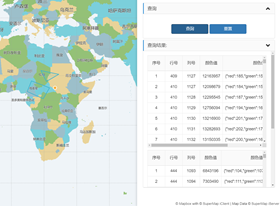
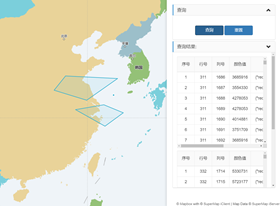
【fix】栅格查询限制查询范围，调整地图中心点与缩放级别 review by qiwei

diff --git a/examples/openlayers/02_getGridCellInfos.html b/examples/openlayers/02_getGridCellInfos.html
@@ -29,7 +29,7 @@
             top: 0;
             right: 0;
             height: 100vh;
-            width: 500px;
+            width: 400px;
             padding: 20px;
             background: #fff;
             font-family: Avenir, Helvetica, Arial, sans-serif;
@@ -221,7 +221,8 @@
     </div>
     <script type="text/javascript" include="bootstrap,jquery,widgets" src="../js/include-web.js"></script>
     <script type="text/javascript">
-        var map, baseUrl = (window.isLocal ? window.server : "https://iserver.supermap.io") + "/iserver/services/map-world/rest/maps/世界地图_Day",
+        var map,
+            baseUrl = (window.isLocal ? window.server : "https://iserver.supermap.io") + "/iserver/services/map-world/rest/maps/世界地图_Day",
             url = (window.isLocal ? window.server : "https://iserver.supermap.io") + "/iserver/services/data-world/rest/data",
             draw,
             querylist = [],
@@ -230,8 +231,8 @@
             target: 'map',
             controls: ol.control.defaults({ attributionOptions: { collapsed: false } }).extend([new ol.supermap.control.Logo({ link: "https://iclient.supermap.io" })]),
             view: new ol.View({
-                center: [30, 0],
-                zoom: 3,
+                center: [120, 28],
+                zoom: 6,
                 projection: 'EPSG:4326',
                 multiWorld: true,
             })
@@ -274,9 +275,30 @@
                 appendTable(res);
             })
         }
+        function getValuesCount(res) {
+            var count = 0;
+            if (!res.object.bounds) {
+                count += 1;
+            } else if (res.object.bounds && !Array.isArray(res.object.bounds)) {
+                count += res.result.valuesCount;
+            } else {
+                var customResult = res.result.customResult;
+                for (var i = 0; i < customResult.length; i++) {
+                    if (customResult[i].values) {
+                        count += customResult[i].valuesCount;
+                    } else {
+                        count += 1;
+                    }
+                }
+            }
+            return count;
+        }
         function appendTable(res) {
-            if (!res || res.error) {
+            if (!res) {
                 return;
+            }
+            if ((res.error && res.error.code === 400) || getValuesCount(res) > 5000) {
+                return widgets.alert.showAlert(resources.msg_outOfQueryRange, false);
             }
             // 展开table
             collapseTable();
@@ -347,7 +369,7 @@
             table.appendChild(thead);
             table.appendChild(tbody);
 
-            var theadInfo = '<tr><th>'+ resources.text_index +'</th><th>'+ resources.text_row_index +'</th><th>'+ resources.text_column_index +'</th><th>'+ resources.text_color_number +'</th><th>'+ resources.text_color_rgba +'</th></tr>';
+            var theadInfo = '<tr><th>' + resources.text_index + '</th><th>' + resources.text_row_index + '</th><th>' + resources.text_column_index + '</th><th>' + resources.text_color_number + '</th><th>' + resources.text_color_rgba + '</th></tr>';
             thead.append(theadInfo);
             thead.innerHTML = theadInfo;
             tbody.innerHTML = tbodyHtml;

diff --git a/examples/mapboxgl/02_getGridCellInfos.html b/examples/mapboxgl/02_getGridCellInfos.html
@@ -27,7 +27,7 @@
             top: 0;
             right: 0;
             height: 100vh;
-            width: 500px;
+            width: 400px;
             padding: 20px;
             background: #fff;
             font-family: Avenir, Helvetica, Arial, sans-serif;
@@ -236,8 +236,8 @@
                     "source": "raster-tiles",
                 }]
             },
-            center: [30, 0],
-            zoom: 2
+            center: [116, 32],
+            zoom: 4
         });
 
         map.addControl(new mapboxgl.supermap.LogoControl({ link: "https://iclient.supermap.io" }), 'bottom-right');
@@ -252,7 +252,6 @@
                 trash: true,
             }
         });
-        console.log($($('.mapboxgl-ctrl').get(1)));
         $($('.mapboxgl-ctrl').get(1)).hide();
         map.addControl(Draw, 'top-left')
         function queryResult() {
@@ -300,9 +299,30 @@
                 })
             }
         })
+        function getValuesCount(res) {
+            var count = 0;
+            if (!res.object.bounds) {
+                count += 1;
+            } else if (res.object.bounds && !Array.isArray(res.object.bounds)) {
+                count += res.result.valuesCount;
+            } else {
+                var customResult = res.result.customResult;
+                for (var i = 0; i < customResult.length; i++) {
+                    if (customResult[i].values) {
+                        count += customResult[i].valuesCount;
+                    } else {
+                        count += 1;
+                    }
+                }
+            }
+            return count;
+        }
         function appendTable(res) {
             if (!res) {
                 return;
+            }
+            if ((res.error && res.error.code === 400) || getValuesCount(res) > 5000) {
+                return widgets.alert.showAlert(resources.msg_outOfQueryRange, false);
             }
             // 展开table
             collapseTable();
@@ -373,7 +393,7 @@
             table.appendChild(thead);
             table.appendChild(tbody);
 
-            var theadInfo = '<tr><th>'+ resources.text_index +'</th><th>'+ resources.text_row_index +'</th><th>'+ resources.text_column_index +'</th><th>'+ resources.text_color_number +'</th><th>'+ resources.text_color_rgba +'</th></tr>';
+            var theadInfo = '<tr><th>' + resources.text_index + '</th><th>' + resources.text_row_index + '</th><th>' + resources.text_column_index + '</th><th>' + resources.text_color_number + '</th><th>' + resources.text_color_rgba + '</th></tr>';
             thead.append(theadInfo);
             thead.innerHTML = theadInfo;
             tbody.innerHTML = tbodyHtml;

diff --git a/examples/leaflet/02_getGridCellInfos.html b/examples/leaflet/02_getGridCellInfos.html
@@ -27,7 +27,7 @@
             top: 0;
             right: 0;
             height: 100vh;
-            width: 500px;
+            width: 400px;
             padding: 20px;
             background: #fff;
             font-family: Avenir, Helvetica, Arial, sans-serif;
@@ -216,9 +216,8 @@
         map = L.map('map', {
             preferCanvas: true,
             crs: L.CRS.EPSG4326,
-            center: { lon: 30, lat: 0 },
-            maxZoom: 18,
-            zoom: 2
+            center: { lon: 120, lat: 28 },
+            zoom: 5
         });
 
         new L.supermap.TiledMapLayer(baseUrl, { noWrap: true }).addTo(map);
@@ -269,9 +268,30 @@
                 appendTable(res);
             })
         }
+        function getValuesCount(res) {
+            var count = 0;
+            if (!res.object.bounds) {
+                count += 1;
+            } else if (res.object.bounds && !Array.isArray(res.object.bounds)) {
+                count += res.result.valuesCount;
+            } else {
+                var customResult = res.result.customResult;
+                for(var i = 0 ; i < customResult.length ; i ++) {
+                    if (customResult[i].values) {
+                        count += customResult[i].valuesCount;
+                    } else {
+                        count += 1;
+                    }
+                }
+            }
+            return count;
+        }
         function appendTable(res) {
             if (!res) {
                 return;
+            }
+            if ((res.error && res.error.code === 400) || getValuesCount(res) > 5000) {
+                return widgets.alert.showAlert(resources.msg_outOfQueryRange, false);
             }
             // 展开table
             collapseTable();

diff --git a/examples/maplibregl/02_getGridCellInfos.html b/examples/maplibregl/02_getGridCellInfos.html
@@ -53,7 +53,7 @@
             top: 0;
             right: 0;
             height: 100vh;
-            width: 500px;
+            width: 400px;
             padding: 20px;
             background: #fff;
             font-family: Avenir, Helvetica, Arial, sans-serif;
@@ -262,8 +262,8 @@
                     "source": "raster-tiles",
                 }]
             },
-            center: [30, 0],
-            zoom: 2
+            center: [116, 32],
+            zoom: 4
         });
         //mapbox 绘制要素图形控件
         var Draw = new MapboxDraw({
@@ -323,9 +323,30 @@
                 })
             }
         });
+        function getValuesCount(res) {
+            var count = 0;
+            if (!res.object.bounds) {
+                count += 1;
+            } else if (res.object.bounds && !Array.isArray(res.object.bounds)) {
+                count += res.result.valuesCount;
+            } else {
+                var customResult = res.result.customResult;
+                for(var i = 0 ; i < customResult.length ; i ++) {
+                    if (customResult[i].values) {
+                        count += customResult[i].valuesCount;
+                    } else {
+                        count += 1;
+                    }
+                }
+            }
+            return count;
+        }
         function appendTable(res) {
             if (!res) {
                 return;
+            }
+            if ((res.error && res.error.code === 400) || getValuesCount(res) > 5000) {
+                return widgets.alert.showAlert(resources.msg_outOfQueryRange, false);
             }
             // 展开table
             collapseTable();

diff --git a/examples/locales/en-US/resources.js b/examples/locales/en-US/resources.js
@@ -1877,6 +1877,7 @@ window.examplesResources = {
         "msg_deleteFeatureFailed": 'Delete feature failed',
         "msg_geographicPosition": "geographical position error! ",
         "msg_gridQueryNote": "Note: Click the map at any position, the instance will start to grid query at this location, and the bottom left corner of the map will show the query results after the query is completed.",
+        "msg_outOfQueryRange": "Please narrow down the search scope。",
         "msg_drawQueryBounds": "Please draw the query range!",
         "msg_drawClipBounds": "Please draw the clip range!",
         "msg_chooseColor": "Please choose color value",

diff --git a/examples/locales/zh-CN/resources.js b/examples/locales/zh-CN/resources.js
@@ -1829,6 +1829,7 @@ window.examplesResources = {
         "msg_deleteFeatureFailed": '删除地物失败',
         "msg_geographicPosition": "地理位置错误！",
         "msg_gridQueryNote": "注：点击地图任意位置，案例以该位置进行栅格查询，查询完成后地图左下角会显示查询结果。",
+        "msg_outOfQueryRange": "请缩小查询范围。",
         "msg_drawQueryBounds": "请绘制查询范围!",
         "msg_drawClipBounds": "请绘制裁剪范围!",
         "msg_chooseColor": "请选颜色值",
